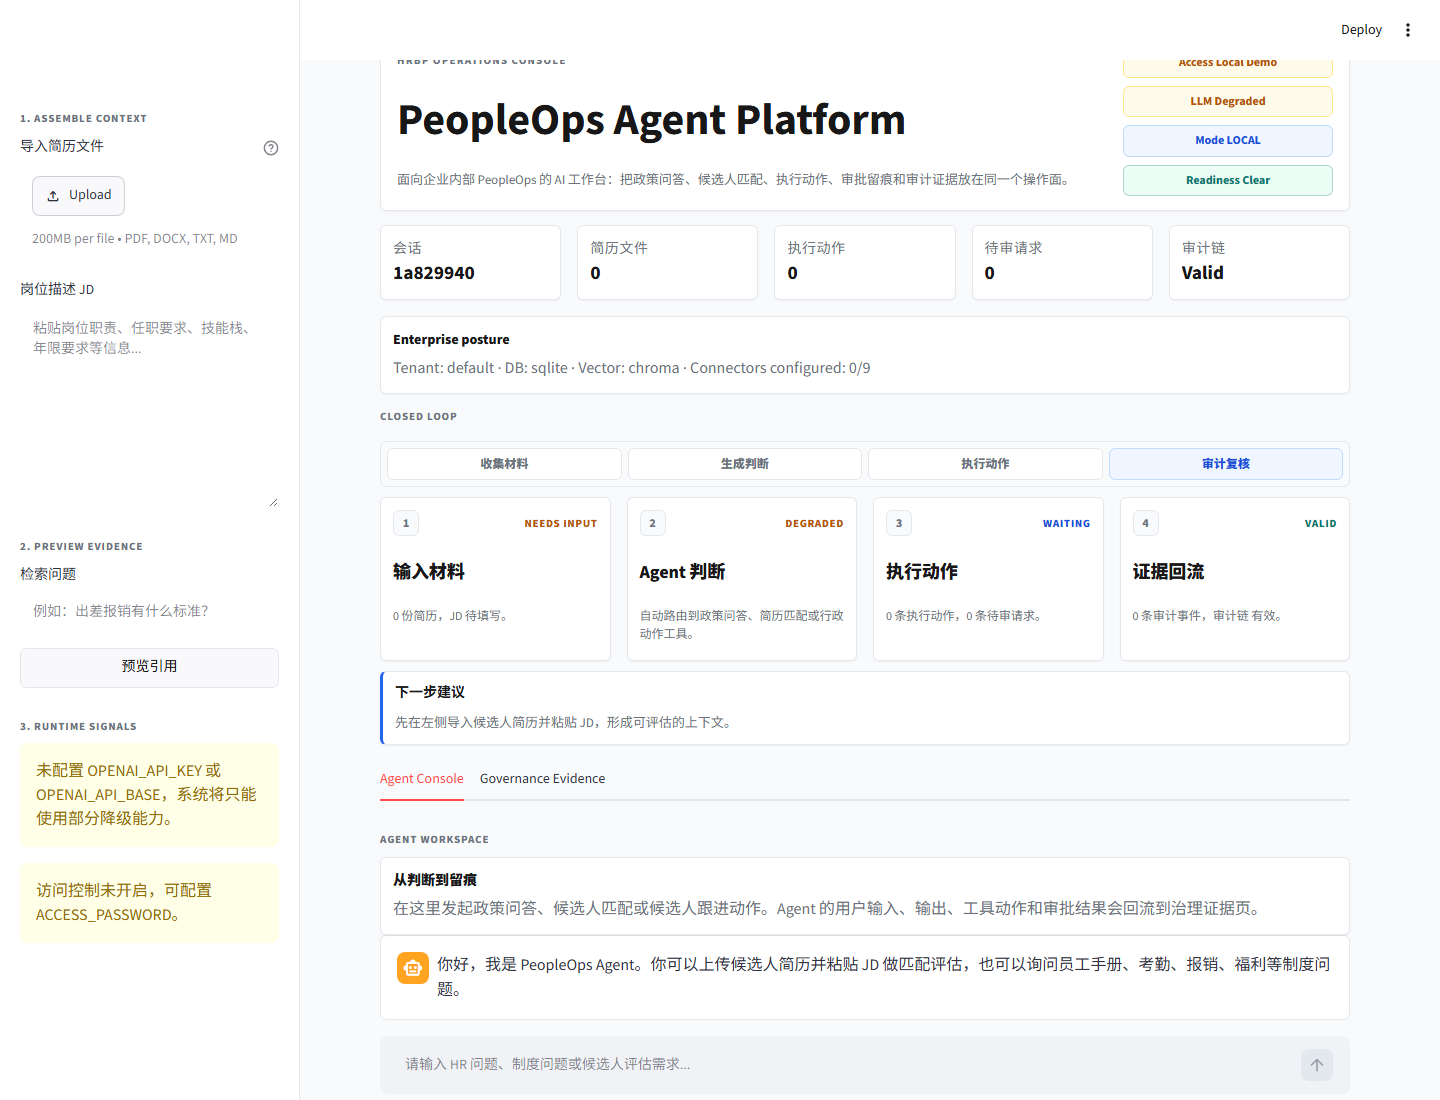
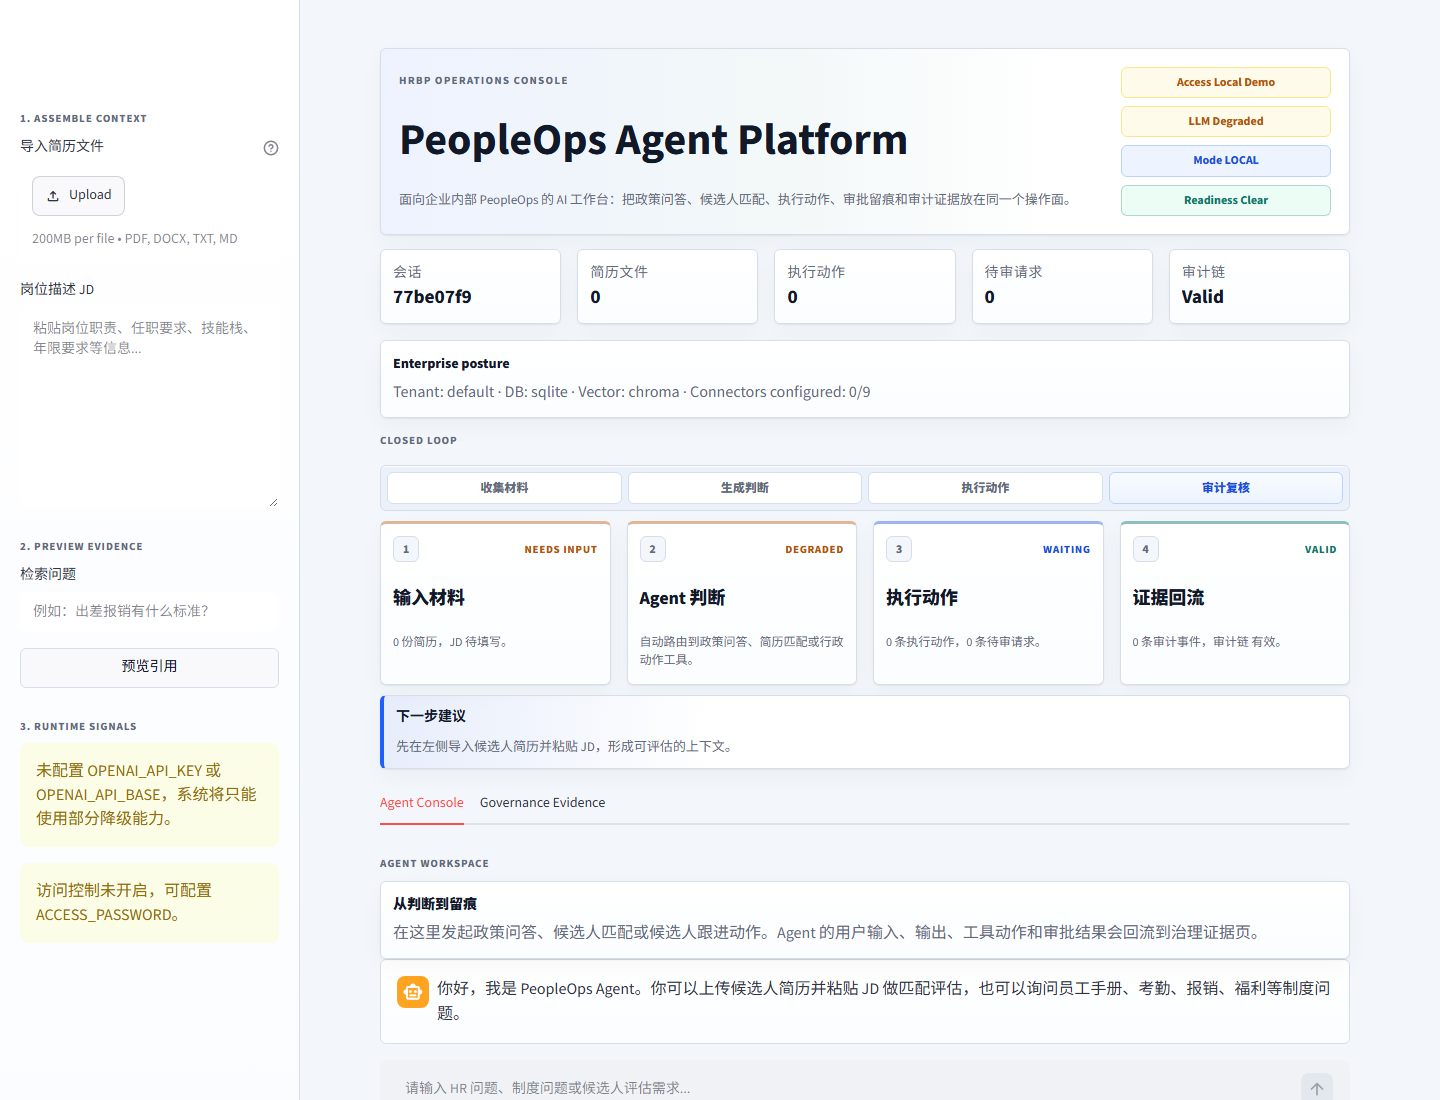
Enhance enterprise console visuals

diff --git a/app.py b/app.py
@@ -20,21 +20,22 @@ st.markdown(
     """
     <style>
     :root {
-        --po-ink: #171717;
-        --po-muted: #6b7280;
-        --po-soft: #9ca3af;
-        --po-line: #e5e7eb;
-        --po-paper: #f8fafc;
+        --po-ink: #111827;
+        --po-muted: #5f6b7a;
+        --po-soft: #94a3b8;
+        --po-line: #d8dee8;
+        --po-paper: #f3f6fb;
         --po-panel: #ffffff;
-        --po-panel-strong: #f9fafb;
-        --po-accent: #2563eb;
-        --po-accent-soft: #eff6ff;
-        --po-accent-line: #bfdbfe;
+        --po-panel-strong: #f8fafc;
+        --po-accent: #1f5eff;
+        --po-accent-soft: #edf4ff;
+        --po-accent-line: #b9d3ff;
         --po-amber: #b45309;
         --po-green: #0f766e;
         --po-blue: #1d4ed8;
         --po-red: #b42318;
-        --po-shadow: 0 1px 2px rgba(15, 23, 42, 0.05);
+        --po-shadow: 0 1px 2px rgba(15, 23, 42, 0.06), 0 8px 24px rgba(15, 23, 42, 0.035);
+        --po-shadow-soft: 0 1px 1px rgba(15, 23, 42, 0.04);
         --po-radius: 6px;
     }
 
@@ -44,11 +45,19 @@ st.markdown(
     }
     .block-container {
         max-width: 1380px;
-        padding-top: 1rem;
+        padding-top: 2rem;
         padding-bottom: 1.75rem;
     }
+    header[data-testid="stHeader"],
+    [data-testid="stToolbar"],
+    [data-testid="stDecoration"],
+    [data-testid="stDeployButton"],
+    [data-testid="stAppDeployButton"],
+    #MainMenu {
+        display: none !important;
+    }
     section[data-testid="stSidebar"] {
-        background: #ffffff;
+        background: linear-gradient(180deg, #ffffff 0%, #fbfcff 100%);
         border-right: 1px solid var(--po-line);
     }
     section[data-testid="stSidebar"] > div {
@@ -59,7 +68,7 @@ st.markdown(
         color: var(--po-ink);
     }
     div[data-testid="stMetric"] {
-        background: #ffffff;
+        background: linear-gradient(180deg, #ffffff 0%, #fbfdff 100%);
         border: 1px solid var(--po-line);
         border-radius: var(--po-radius);
         padding: 10px 12px;
@@ -82,11 +91,13 @@ st.markdown(
         align-items: center;
         justify-content: space-between;
         gap: 16px;
-        padding: 14px 16px;
+        padding: 18px 18px;
         margin-bottom: 14px;
         border: 1px solid var(--po-line);
         border-radius: var(--po-radius);
-        background: #ffffff;
+        background:
+            linear-gradient(90deg, rgba(31,94,255,0.08), rgba(15,118,110,0.05) 42%, rgba(255,255,255,0) 70%),
+            #ffffff;
         box-shadow: var(--po-shadow);
     }
     .po-kicker {
@@ -99,9 +110,9 @@ st.markdown(
     }
     .po-title {
         margin: 0;
-        font-size: 30px;
+        font-size: 32px;
         line-height: 1.05;
-        font-weight: 780;
+        font-weight: 820;
     }
     .po-subtitle {
         margin-top: 8px;
@@ -122,7 +133,7 @@ st.markdown(
         padding: 5px 9px;
         border-radius: var(--po-radius);
         border: 1px solid var(--po-line);
-        background: #ffffff;
+        background: rgba(255,255,255,0.88);
         color: var(--po-ink);
         font-size: 12px;
         font-weight: 760;
@@ -142,7 +153,7 @@ st.markdown(
     .po-panel {
         border: 1px solid var(--po-line);
         border-radius: var(--po-radius);
-        background: #ffffff;
+        background: linear-gradient(180deg, #ffffff 0%, #fbfdff 100%);
         padding: 12px;
         box-shadow: var(--po-shadow);
     }
@@ -172,7 +183,8 @@ st.markdown(
         padding: 6px;
         border: 1px solid var(--po-line);
         border-radius: var(--po-radius);
-        background: var(--po-panel-strong);
+        background: #eaf1fb;
+        box-shadow: inset 0 1px 0 rgba(255,255,255,0.85);
     }
     .po-rail-item {
         min-height: 32px;
@@ -189,7 +201,7 @@ st.markdown(
     }
     .po-rail-item.ready {
         border-color: var(--po-accent-line);
-        background: var(--po-accent-soft);
+        background: linear-gradient(180deg, #f8fbff 0%, var(--po-accent-soft) 100%);
         color: var(--po-blue);
     }
     .po-step {
@@ -197,8 +209,9 @@ st.markdown(
         display: flex;
         flex-direction: column;
         border: 1px solid var(--po-line);
+        border-top: 3px solid var(--po-accent-line);
         border-radius: var(--po-radius);
-        background: #ffffff;
+        background: linear-gradient(180deg, #ffffff 0%, #fbfdff 100%);
         padding: 12px 12px 13px;
         box-shadow: var(--po-shadow);
         overflow: hidden;
@@ -218,7 +231,7 @@ st.markdown(
         height: 26px;
         border-radius: var(--po-radius);
         border: 1px solid var(--po-line);
-        background: var(--po-panel-strong);
+        background: #f3f6fb;
         color: var(--po-muted);
         font-size: 12px;
         font-weight: 820;
@@ -232,6 +245,9 @@ st.markdown(
     .po-step-state.green { color: var(--po-green); }
     .po-step-state.amber { color: var(--po-amber); }
     .po-step-state.blue { color: var(--po-blue); }
+    .po-step:has(.po-step-state.green) { border-top-color: rgba(15,118,110,0.46); }
+    .po-step:has(.po-step-state.amber) { border-top-color: rgba(180,83,9,0.42); }
+    .po-step:has(.po-step-state.blue) { border-top-color: rgba(29,78,216,0.42); }
     .po-step .po-step-title {
         margin: 6px 0 8px !important;
         color: var(--po-ink);
@@ -248,12 +264,12 @@ st.markdown(
     }
     .po-next-action {
         margin: 10px 0 14px;
-        border-left: 3px solid var(--po-accent);
+        border-left: 4px solid var(--po-accent);
         border-radius: var(--po-radius);
         border-top: 1px solid var(--po-line);
         border-right: 1px solid var(--po-line);
         border-bottom: 1px solid var(--po-line);
-        background: #ffffff;
+        background: linear-gradient(90deg, rgba(31,94,255,0.06), #ffffff 34%);
         padding: 10px 12px;
         box-shadow: var(--po-shadow);
     }
@@ -276,7 +292,7 @@ st.markdown(
     .po-evidence-item {
         border: 1px solid var(--po-line);
         border-radius: var(--po-radius);
-        background: #ffffff;
+        background: linear-gradient(180deg, #ffffff 0%, #fbfdff 100%);
         padding: 12px;
         box-shadow: var(--po-shadow);
     }
@@ -310,13 +326,13 @@ st.markdown(
         border: 1px dashed var(--po-line);
         border-radius: var(--po-radius);
         color: var(--po-muted);
-        background: var(--po-panel-strong);
+        background: #f8fafc;
         font-size: 13px;
     }
     .stChatMessage {
         border: 1px solid var(--po-line);
         border-radius: var(--po-radius);
-        background: #ffffff;
+        background: linear-gradient(180deg, #ffffff 0%, #fbfdff 100%);
     }
     .stTextInput input, .stTextArea textarea {
         border-radius: var(--po-radius);